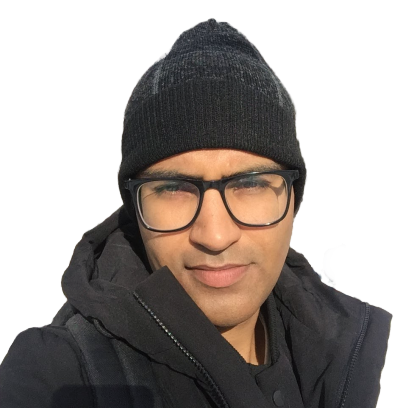
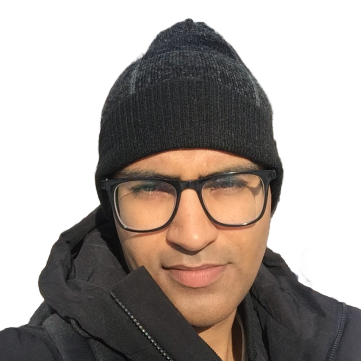
[Fixed] display image size

diff --git a/index.html b/index.html
@@ -77,7 +77,7 @@ summary: Vijayant Katyal thoughts on life and development
 		}
 	
 		#author_dp{
-			border-radius: 28px !important;
+			border-radius: 8px !important;
 		}
 	</style>
 	
